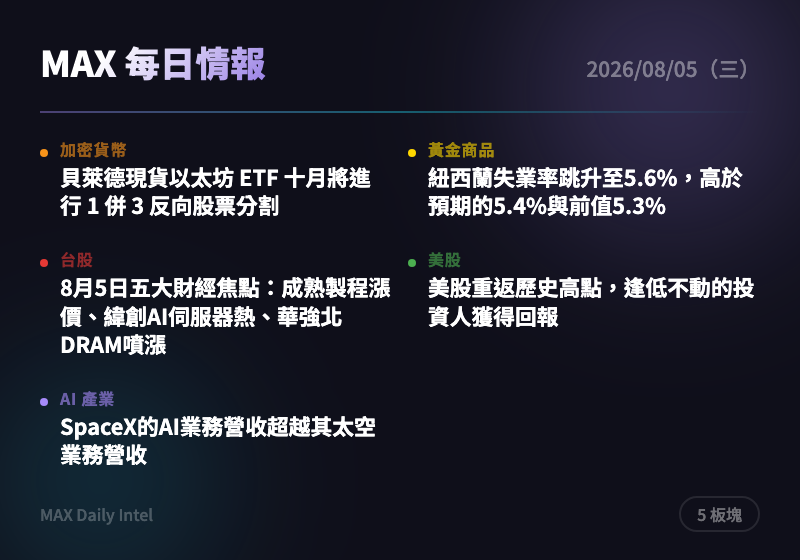
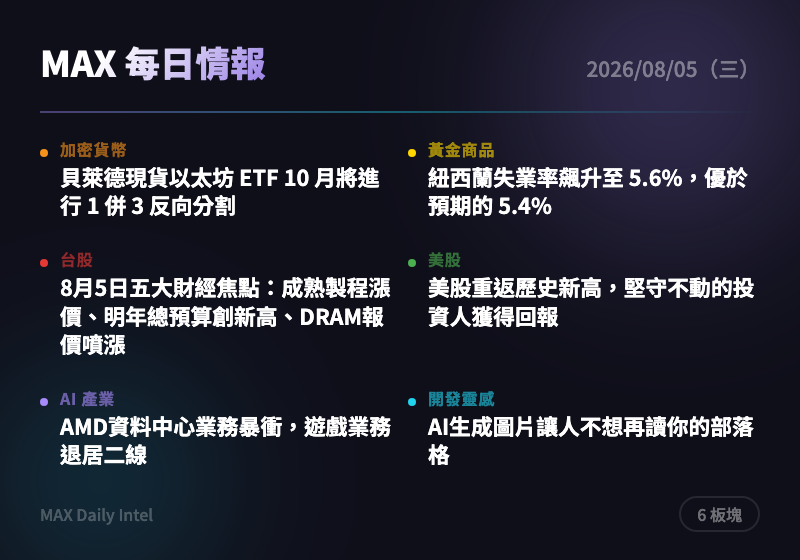
intel: 2026-08-05 每日情報自動生成

diff --git a/docs/2026-08-05.html b/docs/2026-08-05.html
@@ -295,7 +295,7 @@
     <h1>每日情報站</h1>
     <div class="date">2026 年 8 月 5 日（三）</div>
     <div class="stats">
-      <span>10 則情報</span>
+      <span>12 則情報</span>
       <span>7 大板塊</span>
     </div>
   </header>
@@ -318,15 +318,15 @@
     </div>
     <div class="news-card">
       <div class="source">The Block</div>
-      <h3><a href="https://www.theblock.co/post/410663/blackrocks-spot-ethereum-etf-to-undergo-1-for-3-reverse-share-split-in-october?utm_source=rss&utm_medium=rss" target="_blank" rel="noopener">貝萊德現貨以太坊 ETF 十月將進行 1 併 3 反向股票分割</a></h3>
-      <div class="summary">貝萊德將把每三股 ETHA 合併為一股，提高每股淨資產價值。此舉不影響基金總資產，但會改變散戶交易單位與心理價位，市場需留意除權調整。持有 ETHA 的投資人無需操作，但可留意十月分割生效日的帳戶顯示變化。</div>
-      <div class="tags"><span class="tag">以太坊</span><span class="tag">ETF</span><span class="tag">貝萊德</span></div>
+      <h3><a href="https://www.theblock.co/post/410663/blackrocks-spot-ethereum-etf-to-undergo-1-for-3-reverse-share-split-in-october?utm_source=rss&utm_medium=rss" target="_blank" rel="noopener">貝萊德現貨以太坊 ETF 10 月將進行 1 併 3 反向分割</a></h3>
+      <div class="summary">貝萊德（BlackRock）宣布旗下現貨以太幣 ETF（ETHA）將於 10 月進行三股併一股的反向分割，藉此拉高每股淨值。此舉屬於技術性調整，不影響基金總資產價值，但會改變投資人持股數與單價認知。持有 ETHA 的投資人應留意分割日期以免誤判帳面損益。</div>
+      <div class="tags"><span class="tag">以太幣</span><span class="tag">ETF</span><span class="tag">貝萊德</span><span class="tag">加密貨幣</span></div>
     </div>
     <div class="news-card">
-      <div class="source">CoinTelegraph</div>
-      <h3><a href="https://cointelegraph.com/news/us-uk-deepen-crypto-regulatory-cooperation-genius-act-stablecoins?utm_source=rss_feed&utm_medium=rss&utm_campaign=rss_partner_inbound" target="_blank" rel="noopener">美英在聯合金融監管會談中重申支持穩定幣與代幣化</a></h3>
-      <div class="summary">美英監管機構在7月8日會議中強調 GENIUS 法案的落實、支付現代化與跨境合作。這顯示主要經濟體對穩定幣監管框架趨於一致，有利機構資金長期進場。可關注後續兩國監管細則對穩定幣發行商（如 Circle、Tether）的實質影響。</div>
-      <div class="tags"><span class="tag">穩定幣</span><span class="tag">監管政策</span><span class="tag">美英合作</span></div>
+      <div class="source">CoinDesk</div>
+      <h3><a href="https://www.coindesk.com/business/2026/08/04/spacex-tops-wall-street-revenue-forecast-posts-usd540-million-decline-on-bitcoin-holding-value" target="_blank" rel="noopener">SpaceX 營收超預期，比特幣持倉認列 5.4 億美元損失</a></h3>
+      <div class="summary">SpaceX 最新財報營收優於華爾街預期，但因比特幣持倉估值下滑認列 5.4 億美元損失。顯示企業級比特幣持倉正成為財報波動的重要變數，太空/AI 巨頭的加密曝險值得留意。建議追蹤後續季報中比特幣減記趨勢是否影響公司估值。</div>
+      <div class="tags"><span class="tag">加密貨幣</span><span class="tag">比特幣</span><span class="tag">企業財報</span><span class="tag">SpaceX</span></div>
     </div>
   </section>
 
@@ -338,15 +338,15 @@
     </div>
     <div class="news-card">
       <div class="source">ForexLive</div>
-      <h3><a href="https://investinglive.com/news/new-zealand-unemployment-rate-jumps-to-5-6-vs-5-4-expected-and-5-3-prior/" target="_blank" rel="noopener">紐西蘭失業率跳升至5.6%，高於預期的5.4%與前值5.3%</a></h3>
-      <div class="summary">紐西蘭7月失業率意外走升，顯示中東衝突拖累的外部壓力已傳導至就業市場。此數據可能促使紐西蘭央行考慮更寬鬆的貨幣政策，對紐幣走勢與避險資產（黃金）需求形成支撐。可留意紐幣匯率及黃金避險買盤的連動反應。</div>
-      <div class="tags"><span class="tag">紐西蘭</span><span class="tag">就業數據</span><span class="tag">央行政策</span></div>
+      <h3><a href="https://investinglive.com/news/new-zealand-unemployment-rate-jumps-to-5-6-vs-5-4-expected-and-5-3-prior/" target="_blank" rel="noopener">紐西蘭失業率飆升至 5.6%，優於預期的 5.4%</a></h3>
+      <div class="summary">紐西蘭最新失業率報告達 5.6%，高於市場預期的 5.4%及前值 5.3%，顯示當地勞動市場明顯轉弱。就業數據疲軟通常強化央行降息預期，並可能壓抑紐元、間接支撐黃金等避險資產。可觀察紐元匯率與紐西蘭央行後續政策動向。</div>
+      <div class="tags"><span class="tag">總體經濟</span><span class="tag">就業數據</span><span class="tag">紐西蘭</span><span class="tag">外匯</span></div>
     </div>
     <div class="news-card">
       <div class="source">ForexLive</div>
-      <h3><a href="https://investinglive.com/news/rubio-there-s-been-progress-on-reopening-strait-nothing-final-but-hoping-agreement-will-happen-very-shortly/" target="_blank" rel="noopener">貝森特：荷姆茲海峽重啟談判已有進展，尚未最終確定但盼近日達成協議</a></h3>
-      <div class="summary">美國財政部長貝森特表示與伊朗的荷姆茲海峽重啟談判已有進展，市場已提前反應，WTI原油大跌4.18美元至76.16美元。若協議成真，將大幅緩解能源市場緊張並降低通膨壓力，但對黃金的避險需求可能同步降溫。建議追蹤原油價格與黃金的反向連動，留意協議是否如期在本週三前拍板。</div>
-      <div class="tags"><span class="tag">地緣政治</span><span class="tag">原油</span><span class="tag">荷姆茲海峽</span></div>
+      <h3><a href="https://investinglive.com/news/iran-and-oman-continue-strait-of-hormuz-shipping-talks/" target="_blank" rel="noopener">伊朗與阿曼持續霍爾木茲海峽航運談判</a></h3>
+      <div class="summary">伊朗外交部證實與阿曼就霍爾木茲海峽航運安全持續協商，雙方致力建立安全過境路線。該海峽是全球能源運輸要道，談判進展直接牽動油價與避險情緒，進而影響黃金走勢。若協議落地，油價回落可能削弱短線避險買盤，需留意黃金與原油的連動反應。</div>
+      <div class="tags"><span class="tag">地緣政治</span><span class="tag">原油</span><span class="tag">黃金</span><span class="tag">中東局勢</span></div>
     </div>
   </section>
 
@@ -358,14 +358,14 @@
     </div>
     <div class="news-card">
       <div class="source">經濟日報</div>
-      <h3><a href="https://money.udn.com/money/story/5607/9671192" target="_blank" rel="noopener">8月5日五大財經焦點：成熟製程漲價、緯創AI伺服器熱、華強北DRAM噴漲</a></h3>
-      <div class="summary">台積電轉投資世界先進表示AI需求激增成熟製程報價明年將更兇；深圳華強北DRAM現貨單週強彈14%，南亞科、華邦電受惠；緯創AI伺服器出貨暢旺規劃發GDR募資450億元。這顯示AI供應鏈需求持續向記憶體與成熟製程外溢，半導體與伺服器概念股具備延續性動能。可留意南亞科、華邦電及緯創後續股價表現與GDR發行進度。</div>
-      <div class="tags"><span class="tag">半導體</span><span class="tag">AI</span><span class="tag">記憶體</span></div>
+      <h3><a href="https://money.udn.com/money/story/5607/9671192" target="_blank" rel="noopener">8月5日五大財經焦點：成熟製程漲價、明年總預算創新高、DRAM報價噴漲</a></h3>
+      <div class="summary">今日五大焦點涵蓋：AI需求帶動成熟製程明年報價續漲（世界先進、聯電、力積電受惠）；政府明年總歲出達3.6兆創新高並喊零舉債；深圳華強北DRAM現貨單周強彈14%（南亞科、華邦電受惠）；台股槓桿儀表板拚9月上線；緯創AI伺服器出貨暢旺並規劃發GDR籌資450億。AI供應鏈與記憶體漲價題材同步發酵，是近期台股主軸。建議關注成熟製程與記憶體相關個股的訂單能見度。</div>
+      <div class="tags"><span class="tag">台股</span><span class="tag">半導體</span><span class="tag">AI</span><span class="tag">記憶體</span></div>
     </div>
     <div class="news-card">
       <div class="source">經濟日報</div>
-      <h3><a href="https://money.udn.com/money/story/5607/9671028" target="_blank" rel="noopener">台股逼近月季線雙重反壓，震盪1016點收43,360點，蓄勢挑戰45,500點</a></h3>
-      <div class="summary">台股昨日因逼近月線與季線雙重反壓，加上停損賣壓與獲利了結賣壓夾擊，高低震盪達1,016點，終場小跌25點收43,360點，成交量放大至1.08兆元。技術面顯示多空交戰激烈但成交量能仍充足，短線若能突破月季線反壓，上攻空間可期。建議留意43,360-45,500點區間的量價表現作為進出場參考。</div>
+      <h3><a href="https://money.udn.com/money/story/5607/9671028" target="_blank" rel="noopener">台股多空對決 逼近月季線反壓 蓄勢挑戰45,500點</a></h3>
+      <div class="summary">台股昨日高低震盪逾千點，終場小跌25點收43,360點，成交量放大至1.08兆元，反映短線多空拉鋸激烈。指數正逼近月線與季線雙重反壓區，停損賣壓與獲利了結同步湧現，後續能否站穩季線將是多空轉折關鍵。建議短線操作留意量能是否持續放大，作為突破反壓的確認訊號。</div>
       <div class="tags"><span class="tag">台股</span><span class="tag">技術分析</span><span class="tag">大盤</span></div>
     </div>
   </section>
@@ -378,15 +378,15 @@
     </div>
     <div class="news-card">
       <div class="source">MarketWatch</div>
-      <h3><a href="https://www.marketwatch.com/story/stocks-return-to-record-highs-investors-who-sat-tight-during-the-recent-momentum-crash-are-being-rewarded-8c960105?mod=mw_rss_topstories" target="_blank" rel="noopener">美股重返歷史高點，逢低不動的投資人獲得回報</a></h3>
-      <div class="summary">標普500指數創下2026年第25次歷史收盤新高，結束了長達42天的高點空窗期。這顯示先前的動能急跌只是短暫回調，堅持不賣的投資人重新獲利，市場情緒明顯轉為樂觀。可觀察後續是否有追高風險，尤其在AI相關股票帶動下的漲勢是否過熱。</div>
-      <div class="tags"><span class="tag">美股</span><span class="tag">標普500</span><span class="tag">市場情緒</span></div>
+      <h3><a href="https://www.marketwatch.com/story/stocks-return-to-record-highs-investors-who-sat-tight-during-the-recent-momentum-crash-are-being-rewarded-8c960105?mod=mw_rss_topstories" target="_blank" rel="noopener">美股重返歷史新高，堅守不動的投資人獲得回報</a></h3>
+      <div class="summary">標普500指數寫下2026年第25次收盤新高，此前經歷42天未創新高的整理期。堅持持股未在近期動能崩跌中出場的投資人，如今獲得顯著回報，顯示逢低承接策略再度奏效。建議留意此波反彈是否有基本面支撐，避免追高風險。</div>
+      <div class="tags"><span class="tag">美股</span><span class="tag">標普500</span><span class="tag">市場動能</span></div>
     </div>
     <div class="news-card">
       <div class="source">WSJ Markets</div>
-      <h3><a href="https://www.wsj.com/finance/stocks/even-big-profits-arent-enough-to-keep-chip-investors-happy-36acfc66?mod=rss_markets_main" target="_blank" rel="noopener">即使獲利驚人，晶片投資人仍不滿意</a></h3>
-      <div class="summary">半導體指數儘管出現「前所未見」的獲利增長，卻仍跌入熊市。這反映市場對晶片股的估值預期已極高，獲利超預期仍難以滿足投資人胃口，凸顯AI晶片股評價過熱的風險。建議關注個股基本面與股價預期的落差，避免單純追逐財報表面數字。</div>
-      <div class="tags"><span class="tag">半導體</span><span class="tag">美股</span><span class="tag">AI</span></div>
+      <h3><a href="https://www.wsj.com/finance/stocks/even-big-profits-arent-enough-to-keep-chip-investors-happy-36acfc66?mod=rss_markets_main" target="_blank" rel="noopener">獲利再亮眼也難討好晶片投資人</a></h3>
+      <div class="summary">儘管半導體企業繳出「前所未見」的獲利成長，費城半導體指數仍跌入熊市區間，顯示市場對晶片股的期待已遠超基本面表現。這反映投資人對AI晶片需求永續性及估值過高的疑慮升溫。建議對半導體持股保持謹慎，留意獲利與股價背離是否持續擴大。</div>
+      <div class="tags"><span class="tag">半導體</span><span class="tag">美股</span><span class="tag">AI</span><span class="tag">獲利</span></div>
     </div>
   </section>
 
@@ -398,15 +398,15 @@
     </div>
     <div class="news-card">
       <div class="source">The Verge AI</div>
-      <h3><a href="https://www.theverge.com/science/975335/spacex-made-more-money-as-a-neocloud" target="_blank" rel="noopener">SpaceX的AI業務營收超越其太空業務營收</a></h3>
-      <div class="summary">SpaceX的AI業務營收年增逾三倍至26億美元，主要來自向其他AI公司提供算力的合作案，該部門在其上市文件中被列為公司最大收入來源。這顯示傳統太空公司正加速轉型為AI雲端運算供應商，馬斯克旗下企業的AI算力布局日益重要。可留意SpaceX後續上市進程及其AI算力業務估值對股價的潛在影響。</div>
-      <div class="tags"><span class="tag">SpaceX</span><span class="tag">AI</span><span class="tag">雲端運算</span></div>
+      <h3><a href="https://www.theverge.com/tech/975381/amd-q2-2026-earnings-ai-gaming-ryzen" target="_blank" rel="noopener">AMD資料中心業務暴衝，遊戲業務退居二線</a></h3>
+      <div class="summary">受AI運算需求推動，AMD最新財報顯示資料中心營收年增逾一倍，達67億美元，較去年同期32億美元大增107%，且環比第一季58億美元續增。執行長蘇姿丰在法說會中重申AI需求是成長主力。建議關注AMD資料中心晶片市占率變化及對Nvidia的競爭態勢。</div>
+      <div class="tags"><span class="tag">AI</span><span class="tag">半導體</span><span class="tag">AMD</span><span class="tag">資料中心</span></div>
     </div>
     <div class="news-card">
       <div class="source">TechCrunch AI</div>
-      <h3><a href="https://techcrunch.com/2026/08/04/anthropic-signs-10-billion-deal-with-ai-cloud-startup-volta/" target="_blank" rel="noopener">Anthropic與AI雲端新創Volta簽署100億美元合約</a></h3>
-      <div class="summary">Anthropic近月持續進行雲端合作擴張，最新動作是與AI雲端新創公司Volta簽署高達100億美元的合約。這顯示頂級AI實驗室為滿足龐大算力需求正加速多元化雲端供應商布局，降低對單一雲端業者的依賴。可觀察此類巨額算力合約對AI基礎設施供應鏈（電力、晶片、資料中心）的連動效益。</div>
-      <div class="tags"><span class="tag">Anthropic</span><span class="tag">AI</span><span class="tag">雲端運算</span></div>
+      <h3><a href="https://techcrunch.com/2026/08/04/anthropic-signs-10-billion-deal-with-ai-cloud-startup-volta/" target="_blank" rel="noopener">Anthropic 與 AI 雲端新創 Volta 簽下百億美元大單</a></h3>
+      <div class="summary">Anthropic 近月積極擴大雲端合作，最新傳出與 AI 雲端新創公司 Volta 簽署高達100億美元的合作協議。此舉顯示頂尖AI實驗室持續加碼運算基礎設施以支撐模型訓練與推論需求，也反映AI算力供給市場競爭白熱化。建議關注算力供應鏈相關受惠廠商及Volta後續融資動向。</div>
+      <div class="tags"><span class="tag">AI</span><span class="tag">Anthropic</span><span class="tag">雲端運算</span><span class="tag">算力</span></div>
     </div>
   </section>
 
@@ -414,9 +414,20 @@
     <div class="sector-header">
       <div class="indicator" style="background:#00bcd4"></div>
       <h2>&#x1f6e0;&#xfe0f; 開發靈感</h2>
-      <span class="badge">0 則</span>
+      <span class="badge">2 則</span>
     </div>
-    <div class="empty">今日暫無相關情報</div>
+    <div class="news-card">
+      <div class="source">Hacker News Best</div>
+      <h3><a href="https://nelson.cloud/ai-generated-images-discourage-me-from-reading-your-blog/" target="_blank" rel="noopener">AI生成圖片讓人不想再讀你的部落格</a></h3>
+      <div class="summary">一篇熱門文章指出，部落格文章中使用AI生成配圖會降低讀者的閱讀意願與信任感，該文在Hacker News獲得718點與429則留言的高度討論。這反映創作者與讀者對「AI濫用」的容忍度正在下降，內容真實性成為新的品牌資產。建議部落客與內容創作者審慎評估配圖來源，避免削弱讀者信任。</div>
+      <div class="tags"><span class="tag">AI</span><span class="tag">內容創作</span><span class="tag">開發者社群</span></div>
+    </div>
+    <div class="news-card">
+      <div class="source">Product Hunt</div>
+      <h3><a href="https://www.producthunt.com/products/mother-claude-code-terminal" target="_blank" rel="noopener">MOTHER：專為 Claude Code 打造的終端機，支援一鍵恢復工作階段</a></h3>
+      <div class="summary">Product Hunt 上架一款名為 MOTHER 的終端機工具，專為 Claude Code 使用者設計，支援一鍵恢復工作階段（session resume）。此類工具反映AI輔助編程生態圈的周邊工具正快速成熟，開發體驗持續優化。可留意其功能是否能提升多工作階段管理效率。</div>
+      <div class="tags"><span class="tag">開發工具</span><span class="tag">AI</span><span class="tag">Claude Code</span></div>
+    </div>
   </section>
 
 

diff --git a/docs/cards/2026-08-05-card.html b/docs/cards/2026-08-05-card.html
@@ -23,10 +23,11 @@ body{width:400px;height:280px;font-family:'Noto Sans TC',-apple-system,sans-seri
 <div class="content">
 <div class="top-row"><span class="title">MAX 每日情報</span><span class="date">2026/08/05（三）</span></div>
 <div class="divider"></div>
-<div class="grid"><div class="cell"><div class="dot" style="background:#f7931a"></div><div><div class="label" style="color:#f7931a">加密貨幣</div><div class="headline">貝萊德現貨以太坊 ETF 十月將進行 1 併 3 反向股票分割</div></div></div>
-<div class="cell"><div class="dot" style="background:#ffd700"></div><div><div class="label" style="color:#ffd700">黃金商品</div><div class="headline">紐西蘭失業率跳升至5.6%，高於預期的5.4%與前值5.3%</div></div></div>
-<div class="cell"><div class="dot" style="background:#e53935"></div><div><div class="label" style="color:#e53935">台股</div><div class="headline">8月5日五大財經焦點：成熟製程漲價、緯創AI伺服器熱、華強北DRAM噴漲</div></div></div>
-<div class="cell"><div class="dot" style="background:#4caf50"></div><div><div class="label" style="color:#4caf50">美股</div><div class="headline">美股重返歷史高點，逢低不動的投資人獲得回報</div></div></div>
-<div class="cell"><div class="dot" style="background:#a78bfa"></div><div><div class="label" style="color:#a78bfa">AI 產業</div><div class="headline">SpaceX的AI業務營收超越其太空業務營收</div></div></div></div>
-<div class="bottom-row"><span class="url">MAX Daily Intel</span><span class="badge">5 板塊</span></div>
+<div class="grid"><div class="cell"><div class="dot" style="background:#f7931a"></div><div><div class="label" style="color:#f7931a">加密貨幣</div><div class="headline">貝萊德現貨以太坊 ETF 10 月將進行 1 併 3 反向分割</div></div></div>
+<div class="cell"><div class="dot" style="background:#ffd700"></div><div><div class="label" style="color:#ffd700">黃金商品</div><div class="headline">紐西蘭失業率飆升至 5.6%，優於預期的 5.4%</div></div></div>
+<div class="cell"><div class="dot" style="background:#e53935"></div><div><div class="label" style="color:#e53935">台股</div><div class="headline">8月5日五大財經焦點：成熟製程漲價、明年總預算創新高、DRAM報價噴漲</div></div></div>
+<div class="cell"><div class="dot" style="background:#4caf50"></div><div><div class="label" style="color:#4caf50">美股</div><div class="headline">美股重返歷史新高，堅守不動的投資人獲得回報</div></div></div>
+<div class="cell"><div class="dot" style="background:#a78bfa"></div><div><div class="label" style="color:#a78bfa">AI 產業</div><div class="headline">AMD資料中心業務暴衝，遊戲業務退居二線</div></div></div>
+<div class="cell"><div class="dot" style="background:#22d3ee"></div><div><div class="label" style="color:#22d3ee">開發靈感</div><div class="headline">AI生成圖片讓人不想再讀你的部落格</div></div></div></div>
+<div class="bottom-row"><span class="url">MAX Daily Intel</span><span class="badge">6 板塊</span></div>
 </div></body></html>

diff --git a/docs/index.html b/docs/index.html
@@ -151,7 +151,7 @@
     <span>&#x1f6e0;&#xfe0f; 開發靈感</span>
   </div>
 
-  <ul class="issue-list">    <li><a class="issue-card" href="2026-08-05.html"><img src="cards/2026-08-05.png" alt="2026-08-05 每日情報摘要" loading="lazy"><div class="info"><span class="date">2026/08/05（三）</span><span class="meta">10 則情報</span></div></a></li>
+  <ul class="issue-list">    <li><a class="issue-card" href="2026-08-05.html"><img src="cards/2026-08-05.png" alt="2026-08-05 每日情報摘要" loading="lazy"><div class="info"><span class="date">2026/08/05（三）</span><span class="meta">12 則情報</span></div></a></li>
     <li><a class="issue-card" href="2026-08-04.html"><img src="cards/2026-08-04.png" alt="2026-08-04 每日情報摘要" loading="lazy"><div class="info"><span class="date">2026/08/04（二）</span><span class="meta">12 則情報</span></div></a></li>
     <li><a class="issue-card" href="2026-08-03.html"><img src="cards/2026-08-03.png" alt="2026-08-03 每日情報摘要" loading="lazy"><div class="info"><span class="date">2026/08/03（一）</span><span class="meta">10 則情報</span></div></a></li>
     <li><a class="issue-card" href="2026-08-02.html"><img src="cards/2026-08-02.png" alt="2026-08-02 每日情報摘要" loading="lazy"><div class="info"><span class="date">2026/08/02（日）</span><span class="meta">12 則情報</span></div></a></li>
